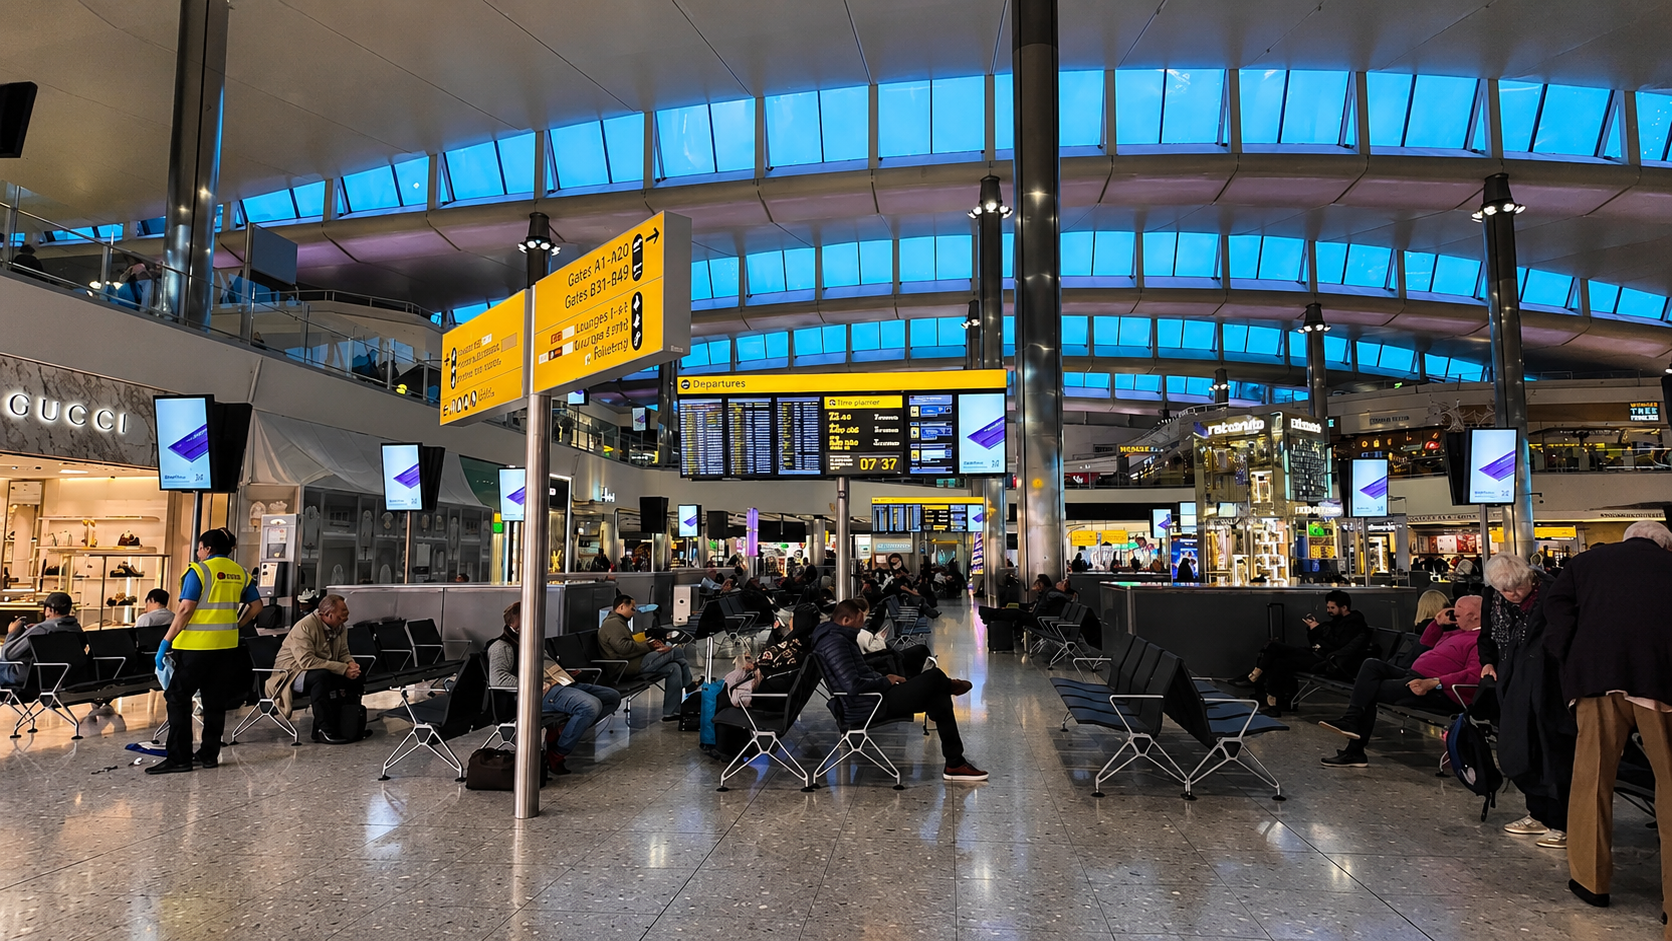
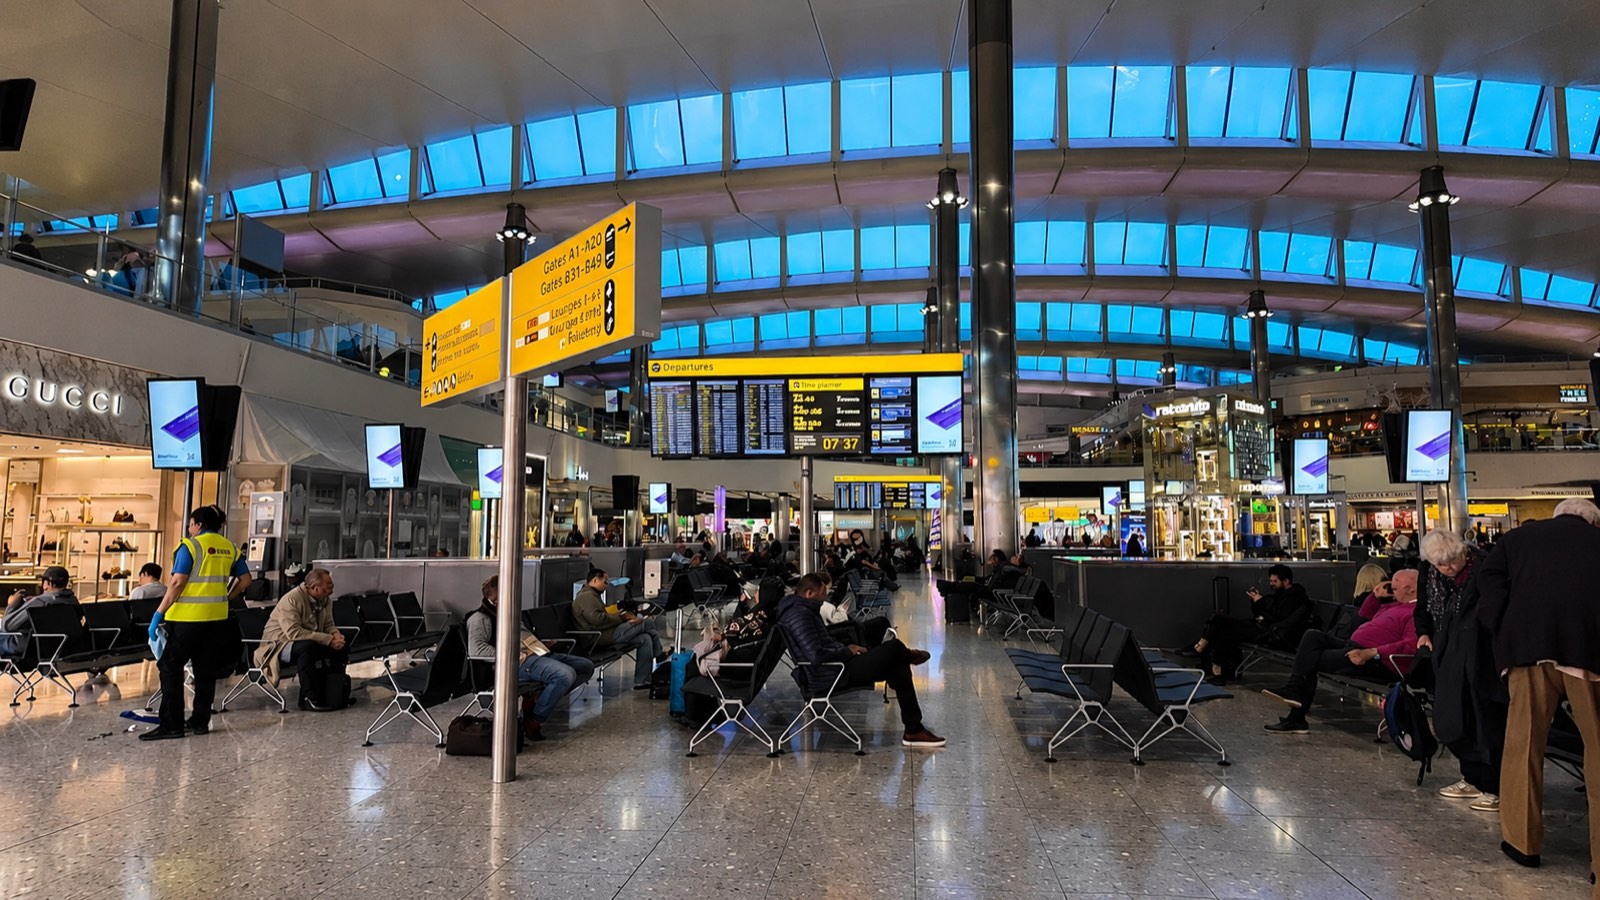
Remove admin image-fix card; add console repair helper; compress splash image

diff --git a/src/components/AdminPanel.tsx b/src/components/AdminPanel.tsx
@@ -18,7 +18,6 @@ import { DatePicker } from './DatePicker'
 import { useApp, SUPERADMIN_UIDS } from '@/context/AppContext'
 import { today, fmtDate } from '@/lib/utils'
 import { seedDemoData, clearDemoData } from '@/lib/seed'
-import { migrateImageUrls } from '@/lib/db'
 import type { Post, Trip, Location, PostExtras } from '@/lib/types'
 
 
@@ -1700,31 +1699,6 @@ export function AdminPanel({ open = false, onOpenChange, initialPost, inline = f
                       } catch { toast.error('Failed to save notice') }
                     }}>Save Notice</Button>
                   </div>
-                </div>
-              </div>
-
-              {/* Fix image URLs */}
-              <div className="rounded-2xl border border-dashed border-border bg-muted/20 overflow-hidden">
-                <div className="px-5 py-4 border-b border-border/60 flex items-center gap-3">
-                  <div className="w-8 h-8 rounded-lg bg-amber-500/10 flex items-center justify-center flex-shrink-0">
-                    <FileArrowUp className="h-4 w-4 text-amber-500" />
-                  </div>
-                  <div>
-                    <p className="font-semibold text-sm">Fix Image URLs</p>
-                    <p className="text-xs text-muted-foreground">Regenerate download URLs for all uploaded images — run this once to fix broken photos</p>
-                  </div>
-                </div>
-                <div className="px-5 py-4 flex items-center justify-between gap-3">
-                  <p className="text-xs text-muted-foreground">Reads each stored image path and updates Firestore with a fresh signed URL. Safe to run multiple times.</p>
-                  <Button size="sm" variant="secondary" className="flex-shrink-0" onClick={async () => {
-                    try {
-                      toast.loading('Regenerating image URLs…', { id: 'img-migrate' })
-                      const { trips, posts } = await migrateImageUrls()
-                      toast.success(`Done — ${trips} trip${trips !== 1 ? 's' : ''} and ${posts} post${posts !== 1 ? 's' : ''} updated`, { id: 'img-migrate' })
-                    } catch (err) {
-                      toast.error((err as Error)?.message || 'Migration failed', { id: 'img-migrate' })
-                    }
-                  }}>Fix Image URLs</Button>
                 </div>
               </div>
 

diff --git a/src/App.tsx b/src/App.tsx
@@ -3,7 +3,7 @@ import { Toaster, toast } from 'sonner'
 import { CircleNotch } from '@phosphor-icons/react'
 import { onAuthStateChanged } from 'firebase/auth'
 import { auth } from '@/lib/firebase'
-import { saveAccountRecord, insertRegistration } from '@/lib/db'
+import { saveAccountRecord, insertRegistration, migrateImageUrls } from '@/lib/db'
 import { AppProvider, useApp, SUPERADMIN_UIDS } from '@/context/AppContext'
 import confetti from 'canvas-confetti'
 import type { Registration } from '@/lib/types'
@@ -64,6 +64,21 @@ function AppShell() {
   const [sidebarExpanded, setSidebarExpanded] = useState(false)
   const pendingTripId = useRef<string | null>(null)
   const pendingError  = useRef(false)
+
+  // One-time repair helper for admins: run repairImages() in the browser console
+  // to regenerate download URLs for any images that were uploaded with a broken URL.
+  useEffect(() => {
+    if (!state.isAdmin) return
+    ;(window as unknown as { repairImages?: () => Promise<void> }).repairImages = async () => {
+      toast.loading('Repairing image URLs…', { id: 'img-repair' })
+      try {
+        const { trips, posts } = await migrateImageUrls()
+        toast.success(`Repaired ${trips} trip(s) and ${posts} post(s). Refresh to see them.`, { id: 'img-repair', duration: 8000 })
+      } catch (err) {
+        toast.error((err as Error)?.message || 'Repair failed', { id: 'img-repair' })
+      }
+    }
+  }, [state.isAdmin])
 
   // Capture ?trip=ID from Lotus return URL immediately on mount
   useEffect(() => {
